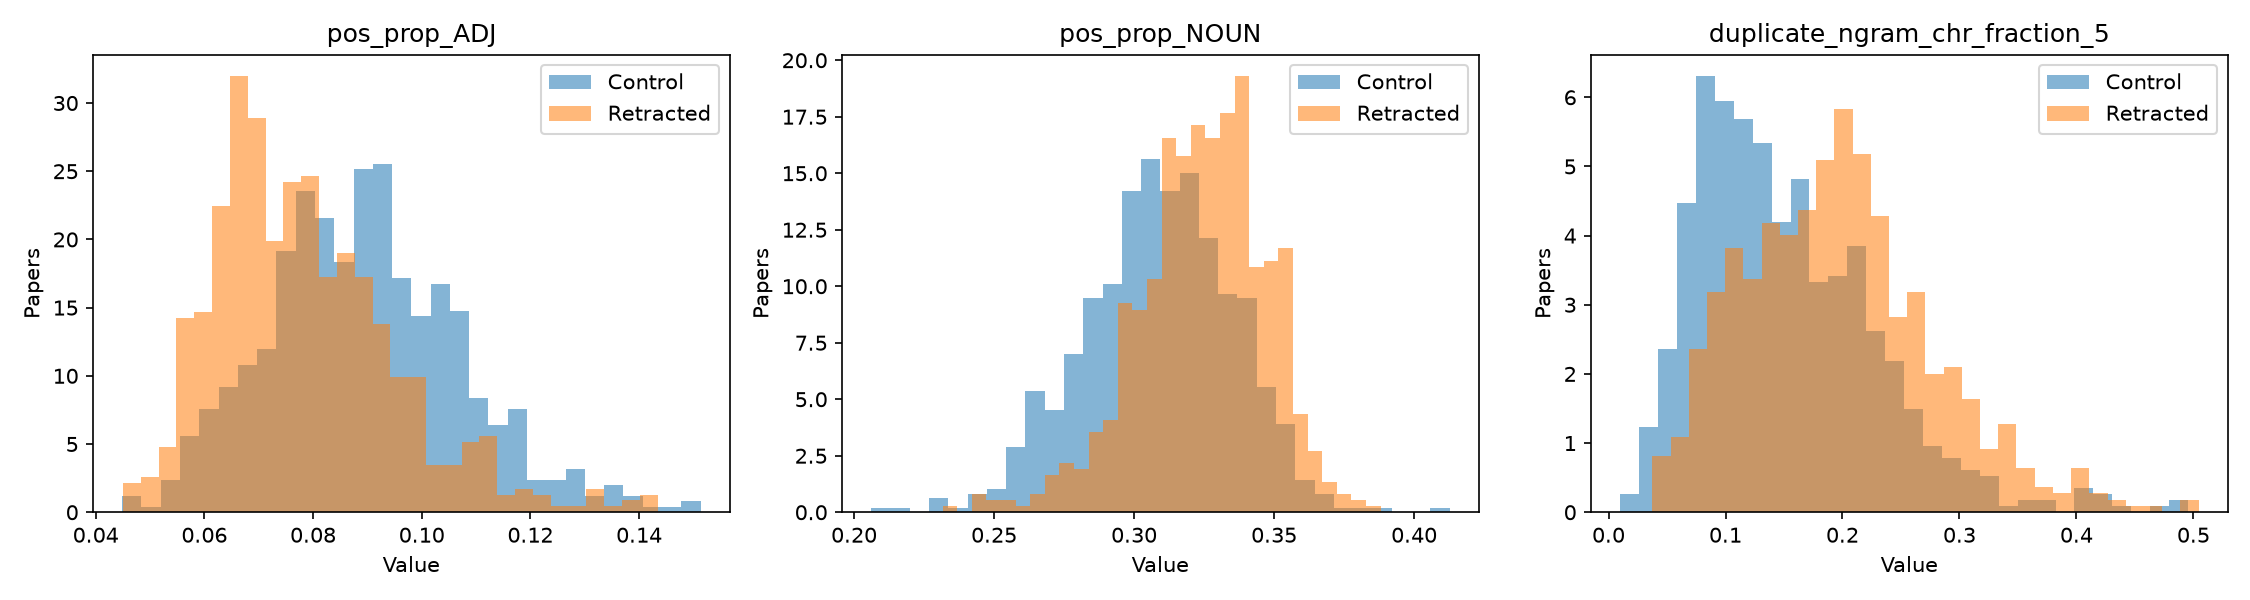
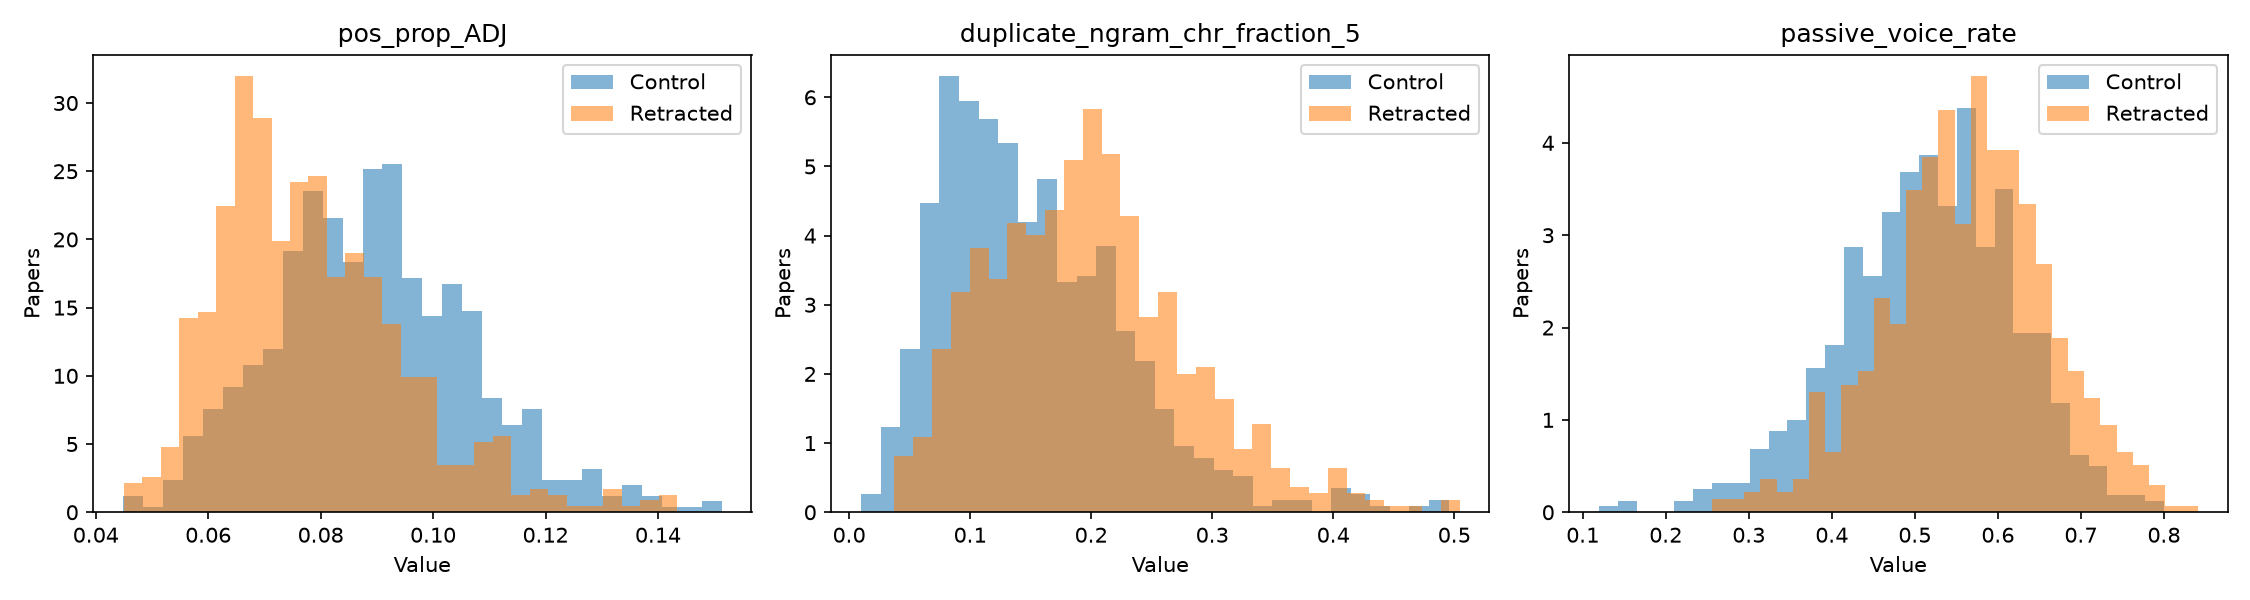
Small Commit: Updated the stats Added a point-biserial correlation coefficient for the NLP features Updated the README for better reproducability instructions

diff --git a/3_run_stats.py b/3_run_stats.py
@@ -47,11 +47,22 @@ def distribution_summary(values, prefix):
     }
 
 
+def point_biserial_summary(feature_values, labels):
+    valid = np.isfinite(feature_values) & np.isfinite(labels)
+    feature_values = feature_values[valid]
+    labels = labels[valid]
+
+    test_result = stats.pointbiserialr(labels, feature_values)
+    return test_result.statistic
+
+
 for feature in feature_columns:
     paired = data.pivot(index='pair_id', columns='isFraud', values=feature)
 
     control = paired[False].to_numpy()
     retracted = paired[True].to_numpy()
+    feature_values = data[feature].to_numpy()
+    labels = data['isFraud'].astype(int).to_numpy()
 
     # positive difference means higher in retracted papers
     differences = retracted - control
@@ -76,6 +87,7 @@ for feature in feature_columns:
         'wilcoxon_statistic': statistic,
         'p_value': p_value,
         'rank_biserial': effect_size,
+        'point_biserial_r': point_biserial_summary(feature_values, labels)
     }
     result.update(distribution_summary(control, 'control'))
     result.update(distribution_summary(retracted, 'retracted'))
@@ -90,10 +102,9 @@ results['q_value'] = multipletests(results['p_value'], alpha=0.05, method='fdr_b
 results['significant'] = results['q_value'] < 0.05
 results = results.sort_values(['q_value'])
 
-results.to_csv('data/wilcoxon_feature_results.csv', index=False)
+results.to_csv('data/feature_stats.csv', index=False)
 
-things_to_plot = ['pos_prop_ADJ', 'pos_prop_NOUN', 'duplicate_ngram_chr_fraction_5']
-
+things_to_plot = ['pos_prop_ADJ', 'duplicate_ngram_chr_fraction_5', 'passive_voice_rate']
 fig, axes = plt.subplots(1, len(things_to_plot), figsize=(15, 4))
 for axis, feature in zip(axes, things_to_plot):
     for is_fraud, label, color in ((False, 'Control', 'tab:blue'), (True, 'Retracted', 'tab:orange')):

diff --git a/README.md b/README.md
@@ -1,32 +1,55 @@
-# scientific-fraud-nlp
+# Scientific Fraud NLP
+
 ## How to Run
+
 1. Install the required dependencies.
-```bash
-pip install -r requirements.txt
-```
-2. Download the most recent version of the Retraction Watch dataset [here](https://gitlab.com/crossref/retraction-watch-data/-/blob/main/retraction_watch.csv).
+
+   ```bash
+   python3 -m pip install -r requirements.txt
+   ```
+
+2. Download the most recent version of the Retraction Watch dataset from [Crossref's Retraction Watch data repository](https://gitlab.com/crossref/retraction-watch-data/-/blob/main/retraction_watch.csv), then save it as `retraction_watch.csv` in the project root.
+
 3. Filter and download the set of fraudulent papers to use.
-```bash
-python3 0_download_fraud_papers.py
-```
+
+   ```bash
+   python3 0_download_fraud_papers.py
+   ```
+
 4. Search for and download a control set of comparable non-fraudulent papers on similar topics.
-```bash
-python3 1_download_control_papers.py
-```
+
+   ```bash
+   python3 1_download_control_papers.py
+   ```
+
 5. Extract the NLP features from each paper.
-```bash
-python3 2_extract_features.py
-```
+
+   ```bash
+   python3 2_extract_features.py
+   ```
+
 6. Optional: Run statistics on the extracted NLP features.
-```bash
-python3 3_run_stats.py
-```
-7. Run the ML pipeline to build the prediction model.
-```bash
-python3 4_ML_pipeline.py
-```
+
+   ```bash
+   python3 3_run_stats.py
+   ```
+
+7. Build the paper embeddings. This only needs to be run once unless the paper data changes.
+
+   ```bash
+   python3 4_make_pubmed_embeddings.py
+   ```
+
+8. Run the ML pipeline to build the prediction model.
+
+   ```bash
+   python3 4_ML_pipeline.py
+   ```
 
 ## License
+
 The original source code in this repository is licensed under the BSD 3-Clause License.
-Third party content in this repository, such as the full-text articles downloaded from PubMed Central (PMC) are not authored by me and do not fall under this repository's BSD 3-Clause License. They remain under their original copyright and license terms, listed in the PMC metadata. 
+
+Third-party content in this repository, such as the full-text articles downloaded from PubMed Central (PMC), is not authored by me and does not fall under this repository's BSD 3-Clause License. It remains under its original copyright and license terms, as listed in the PMC metadata.
+
 Users are responsible for complying with the license terms for each article.